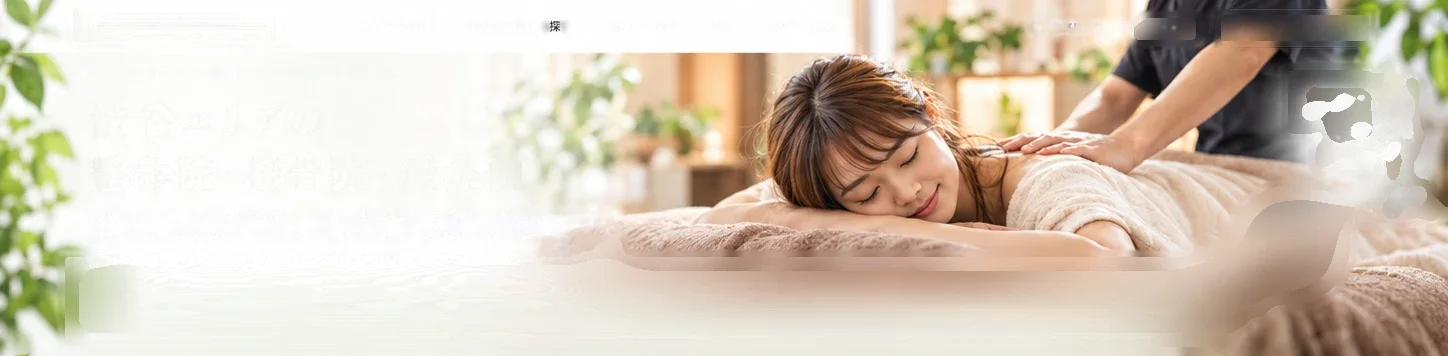
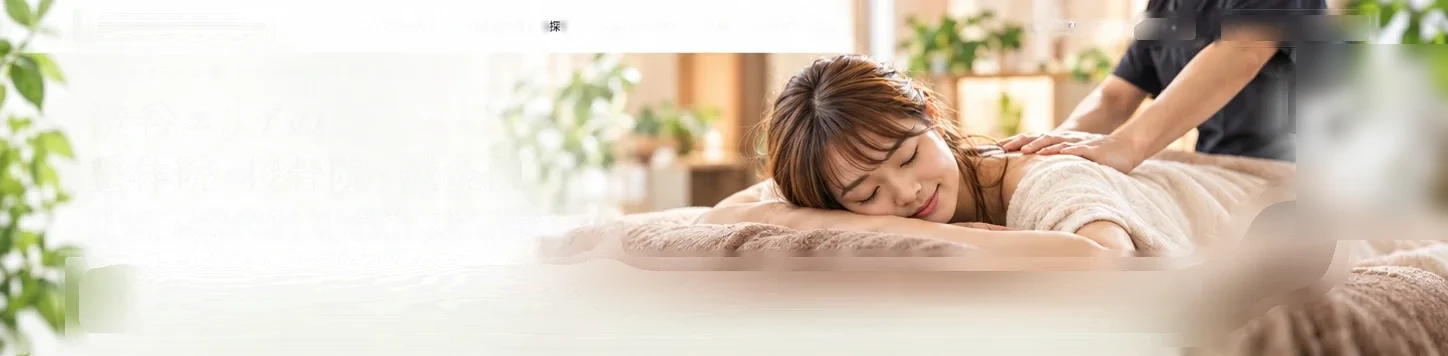
fix(bodycare-green): 探すページの見比べ修正(見出し2行目の字幅・手書き・左の条件の字と行間・キーワードの位置・ヘッダーの形・ヒーローの継ぎ目)

Changed region(s): [[0.9012, 0.1236, 1.0, 0.5871], [0.9634, 0.618, 1.0, 0.6798]]

diff --git a/components/portal/bcproto/green/search/search.css b/components/portal/bcproto/green/search/search.css
@@ -135,6 +135,8 @@
 /* ================= PC(見本の 1448px 画面を、画面幅に合わせて等倍〜縮小) ================= */
 @media (min-width: 1081px) {
   .gr-root:has([data-gr-page="search"]) .gr-nav { gap: 26.2px; }
+  .gr-root:has([data-gr-page="search"]) .gr-logo img { width: 213.5px; height: auto; margin-left: 0; }
+  .gr-root:has([data-gr-page="search"]) .gr-area-btn { width: 153.5px; margin-left: -10px; margin-right: 3.5px; padding-right: 14px; gap: 6px; font-size: 12px; border-radius: 18px; box-shadow: 0 0 0 2px rgba(255, 255, 255, 0.9), 0 0 0 3px rgba(40, 80, 55, 0.35), 0 2px 6px rgba(30, 60, 40, 0.18); }
   .gs-page { --u: clamp(0.75px, calc(100vw / 1448), 1px); }
   .gs-w { width: calc(1448 * var(--u)); margin: 0 auto; }
 
@@ -148,12 +150,19 @@
   .gs-crumb { position: absolute; left: calc(88 * var(--u)); top: calc(63 * var(--u)); gap: 0 calc(26 * var(--u)); font-size: calc(11.5 * var(--u)); line-height: calc(18 * var(--u)); margin: 0; }
   .gs-crumb > *:not(:first-child)::before { left: calc(-17 * var(--u)); width: calc(5 * var(--u)); height: calc(5 * var(--u)); }
   .gs-h1 { position: absolute; left: calc(88 * var(--u)); top: calc(94.5 * var(--u)); margin: 0; font-size: calc(40 * var(--u)); line-height: calc(53 * var(--u)); font-weight: 600; letter-spacing: 0; white-space: nowrap; }
+  .gs-h1 .gr-ml:nth-child(2) .gr-ml-i { font-size: calc(43 * var(--u)); }
+  .gs-dot { margin: 0 calc(-9.25 * var(--u)); }
   .gs-lead { position: absolute; left: calc(88 * var(--u)); top: calc(204 * var(--u)); margin: 0; font-size: calc(14.6 * var(--u)); line-height: calc(22 * var(--u)); width: calc(640 * var(--u)); }
-  .gs-hand { position: absolute; left: calc(1290 * var(--u)); top: calc(84 * var(--u)); z-index: 4; margin: 0; font-size: calc(23.4 * var(--u)); line-height: calc(28.5 * var(--u)); color: #2a2d2c; rotate: -12.5deg; transform-origin: 0 0; font-weight: 600; letter-spacing: 0.02em; }
+  .gs-hand { position: absolute; left: calc(1288 * var(--u)); top: calc(84 * var(--u)); z-index: 4; margin: 0; font-size: calc(23.4 * var(--u)); line-height: calc(28.5 * var(--u)); color: #2a2d2c; rotate: -12.5deg; transform-origin: 0 0; font-weight: 400; letter-spacing: 0.02em; }
+  .gs-hand .gr-wl:nth-child(1) .gr-wl-i { letter-spacing: -0.24em; }
+  .gs-hand .gr-wl:nth-child(2) .gr-wl-i { letter-spacing: -0.17em; }
+  .gs-hand .gr-wl:nth-child(3) .gr-wl-i { letter-spacing: -0.14em; }
+  .gs-hand .gr-wl-i { -webkit-text-stroke: 0.4px currentColor; }
+  .gs-l1 { letter-spacing: calc(0.25 * var(--u)); } .gs-l2 { letter-spacing: calc(-0.3 * var(--u)); }
   .gs-hand::before { content: ""; position: absolute; left: calc(-46 * var(--u)); top: calc(-52 * var(--u)); width: calc(250 * var(--u)); height: calc(200 * var(--u)); z-index: -1; background: radial-gradient(closest-side, rgba(255, 255, 255, 0.93) 0%, rgba(255, 255, 255, 0.88) 55%, rgba(255, 255, 255, 0) 100%); rotate: 12.5deg; pointer-events: none; filter: blur(5px); }
-  .gs-hand .gr-wl:nth-child(2) { margin-left: calc(3 * var(--u)); }
-  .gs-hand .gr-wl:nth-child(3) { margin-left: calc(14 * var(--u)); }
-  .gs-badge { left: calc(1226.5 * var(--u)); top: calc(181 * var(--u)); right: auto; width: calc(127 * var(--u)); height: calc(127 * var(--u)); font-size: calc(13.9 * var(--u)); line-height: calc(19.7 * var(--u)); font-weight: 600; color: #3f4a55; z-index: 3; box-shadow: 0 3px 12px rgba(120, 95, 50, 0.14); }
+  .gs-hand .gr-wl:nth-child(2) { margin-left: calc(0.5 * var(--u)); }
+  .gs-hand .gr-wl:nth-child(3) { margin-left: calc(9.5 * var(--u)); }
+  .gs-badge { left: calc(1226.5 * var(--u)); top: calc(181 * var(--u)); right: auto; width: calc(127 * var(--u)); height: calc(127 * var(--u)); font-size: calc(13.9 * var(--u)); line-height: calc(19.7 * var(--u)); font-weight: 600; color: #35404b; z-index: 3; box-shadow: 0 3px 12px rgba(120, 95, 50, 0.14); }
   .gs-panel { position: absolute; left: calc(73 * var(--u)); top: calc(253 * var(--u)); width: calc(1130 * var(--u)); height: calc(67 * var(--u)); display: block; padding: 0; border-radius: calc(34 * var(--u)); z-index: 2; backdrop-filter: blur(3px); }
   .gs-area { position: absolute; left: calc(16 * var(--u)); top: calc(12 * var(--u)); width: calc(302 * var(--u)); height: calc(43 * var(--u)); border-radius: calc(22 * var(--u)); box-shadow: 0 1px 4px rgba(60, 60, 40, 0.06); }
   .gs-area-pin { left: calc(23 * var(--u)); width: calc(19 * var(--u)); height: calc(24 * var(--u)); }
@@ -165,10 +174,10 @@
   .gs-go { position: absolute; right: calc(1.5 * var(--u)); top: calc(-0.5 * var(--u)); width: calc(288 * var(--u)); height: calc(43.5 * var(--u)); margin: 0; border-radius: calc(22 * var(--u)); font-size: calc(15 * var(--u)); gap: 0; }
   .gs-go svg { position: absolute; right: calc(25 * var(--u)); top: 50%; translate: 0 -50%; width: calc(19 * var(--u)); height: calc(9 * var(--u)); }
   .gs-kw { position: absolute; left: calc(82 * var(--u)); top: calc(323 * var(--u)); height: calc(25 * var(--u)); margin: 0; display: flex; align-items: center; z-index: 2; }
-  .gs-kw-l { font-size: calc(11.5 * var(--u)); margin: 0; white-space: nowrap; }
-  .gs-kw ul { gap: calc(9.5 * var(--u)); margin: 0 0 0 calc(11 * var(--u)); padding: 0; overflow: visible; }
+  .gs-kw-l { font-size: calc(11.2 * var(--u)); margin: 0; white-space: nowrap; }
+  .gs-kw ul { gap: calc(9.3 * var(--u)); margin: 0 0 0 calc(12 * var(--u)); padding: 0; overflow: visible; }
   .gs-kw li { width: calc(var(--w) * var(--u)); }
-  .gs-kw .gr-chip { width: 100%; height: calc(25 * var(--u)); padding: 0; font-size: calc(12 * var(--u)); }
+  .gs-kw .gr-chip { width: 100%; height: calc(25 * var(--u)); padding: 0; font-size: calc(10.6 * var(--u)); font-weight: 600; color: #3b3f3c; }
 
   .gs-eg { opacity: 1; }
   .gs-eg-l { left: 0; top: calc(340 * var(--u)); width: calc(44 * var(--u)); height: calc(330 * var(--u)); transform-origin: 0 20%; }
@@ -191,14 +200,16 @@
   .gs-fsel + .gs-fl { margin-top: calc(6.6 * var(--u)); }
   .gs-fl--3.gs-fl--wide { grid-template-columns: calc(89.5 * var(--u)) calc(88.5 * var(--u)) 1fr; margin-top: calc(7.4 * var(--u)); }
   .gs-fs--worry { padding-top: calc(10 * var(--u)) !important; } .gs-fs--worry .gs-fl { margin-top: calc(4.8 * var(--u)); }
-  .gs-fs--kind { padding-top: calc(11.5 * var(--u)) !important; } .gs-fs--kind .gs-fl { margin-top: calc(6.3 * var(--u)); }
-  .gs-fs--price { padding-top: calc(8 * var(--u)) !important; } .gs-fs--price .gs-fl { margin-top: calc(6.4 * var(--u)); }
-  .gs-fs--hours { padding-top: calc(6 * var(--u)) !important; }
-  .gs-fs--etc { padding-top: calc(5 * var(--u)) !important; }
+  .gs-fs--kind { padding-top: calc(10.5 * var(--u)) !important; } .gs-fs--kind .gs-fl { margin-top: calc(6.3 * var(--u)); }
+  .gs-fs--price { padding-top: calc(7 * var(--u)) !important; } .gs-fs--price .gs-fl { margin-top: calc(6.4 * var(--u)); }
+  .gs-fs--hours { padding-top: calc(5 * var(--u)) !important; }
+  .gs-fs--etc { padding-top: calc(4 * var(--u)) !important; }
   .gs-fl--3.gs-fl--tiny { grid-template-columns: calc(117 * var(--u)) calc(112.5 * var(--u)) 1fr; margin-top: calc(3.2 * var(--u)); }
   .gs-ck { gap: calc(7 * var(--u)); min-height: calc(22.4 * var(--u)); font-size: calc(12.3 * var(--u)); white-space: nowrap; }
   .gs-fl--3 .gs-ck { gap: calc(7.5 * var(--u)); }
-  .gs-fl--tiny .gs-ck { gap: calc(5.5 * var(--u)); min-height: calc(21.5 * var(--u)); font-size: calc(10.8 * var(--u)); white-space: nowrap; }
+  .gs-fl--3.gs-fl--wide .gs-ck { font-size: calc(10.8 * var(--u)); }
+  .gs-fl--tiny .gs-ck { gap: calc(3.5 * var(--u)); min-height: calc(21.5 * var(--u)); font-size: calc(9.5 * var(--u)); white-space: nowrap; color: #6c706c; }
+  .gs-fs--etc .gs-fs-t { font-size: calc(13.2 * var(--u)); }
   .gs-ck i { width: calc(16.5 * var(--u)); height: calc(16.5 * var(--u)); border-radius: calc(4.5 * var(--u)); }
   .gs-ck i svg { width: calc(10 * var(--u)); height: calc(8 * var(--u)); }
   .gs-fbtns { gap: calc(7 * var(--u)); margin: calc(7 * var(--u)) calc(-5 * var(--u)) 0; }
@@ -209,16 +220,16 @@
   .gs-res { padding-top: calc(7 * var(--u)); }
   .gs-rh { height: calc(34 * var(--u)); flex-wrap: nowrap; gap: 0; margin: 0 0 calc(3 * var(--u)); padding-left: calc(4 * var(--u)); }
   .gs-count { gap: 0; }
-  .gs-count-t { font-size: calc(17.6 * var(--u)); margin-right: calc(13 * var(--u)); }
-  .gs-count-n { font-size: calc(27 * var(--u)); font-weight: 700; }
+  .gs-count-t { font-size: calc(18 * var(--u)); font-weight: 600; margin-right: calc(12 * var(--u)); }
+  .gs-count-n { font-size: calc(27 * var(--u)); font-weight: 700; -webkit-text-stroke: 0.3px currentColor; }
   .gs-count-u { font-size: calc(15 * var(--u)); margin-left: calc(1 * var(--u)); }
   .gs-rh-r { gap: 0; margin-right: calc(1 * var(--u)); }
-  .gs-map { width: calc(175 * var(--u)); height: calc(33 * var(--u)); gap: calc(3 * var(--u)); padding-left: calc(17 * var(--u)); border-radius: calc(10 * var(--u)); font-size: calc(12.2 * var(--u)); }
-  .gs-map svg { width: calc(19 * var(--u)); height: calc(19 * var(--u)); }
+  .gs-map { width: calc(175 * var(--u)); height: calc(33 * var(--u)); gap: calc(5.5 * var(--u)); padding-left: calc(11 * var(--u)); border-radius: calc(10 * var(--u)); font-size: calc(12.2 * var(--u)); }
+  .gs-map svg { width: calc(21 * var(--u)); height: calc(21 * var(--u)); }
   .gs-map-i { width: calc(70 * var(--u)); }
-  .gs-sort-l { display: block; margin-left: calc(21 * var(--u)); margin-right: calc(14 * var(--u)); font-size: calc(10.8 * var(--u)); color: var(--gr-mut); }
+  .gs-sort-l { display: block; margin-left: calc(21 * var(--u)); margin-right: calc(14 * var(--u)); font-size: calc(10.8 * var(--u)); font-weight: 500; color: #6d716d; }
   .gs-sort-sel { width: calc(142 * var(--u)); height: calc(32 * var(--u)); border-radius: calc(8 * var(--u)); }
-  .gs-sort-sel select { padding: 0 calc(28 * var(--u)) 0 calc(12 * var(--u)); font-size: calc(12.2 * var(--u)); border-radius: calc(8 * var(--u)); }
+  .gs-sort-sel select { padding: 0 calc(28 * var(--u)) 0 calc(14.5 * var(--u)); font-size: calc(11.2 * var(--u)); font-weight: 500; color: #555; border-radius: calc(8 * var(--u)); }
   .gs-sort-sel svg { right: calc(15 * var(--u)); }
 
   .gs-cards { display: block; }

diff --git a/components/portal/bcproto/green/search/search.src.css b/components/portal/bcproto/green/search/search.src.css
@@ -135,6 +135,8 @@
 /* ================= PC(見本の 1448px 画面を、画面幅に合わせて等倍〜縮小) ================= */
 @media (min-width: 1081px) {
   .gr-root:has([data-gr-page="search"]) .gr-nav { gap: 26.2px; }
+  .gr-root:has([data-gr-page="search"]) .gr-logo img { width: 213.5px; height: auto; margin-left: 0; }
+  .gr-root:has([data-gr-page="search"]) .gr-area-btn { width: 153.5px; margin-left: -10px; margin-right: 3.5px; padding-right: 14px; gap: 6px; font-size: 12px; border-radius: 18px; box-shadow: 0 0 0 2px rgba(255, 255, 255, 0.9), 0 0 0 3px rgba(40, 80, 55, 0.35), 0 2px 6px rgba(30, 60, 40, 0.18); }
   .gs-page { --u: clamp(0.75px, calc(100vw / 1448), 1px); }
   .gs-w { width: calc(1448 * var(--u)); margin: 0 auto; }
 
@@ -148,12 +150,19 @@
   .gs-crumb { position: absolute; left: 88u; top: 63u; gap: 0 26u; font-size: 11.5u; line-height: 18u; margin: 0; }
   .gs-crumb > *:not(:first-child)::before { left: -17u; width: 5u; height: 5u; }
   .gs-h1 { position: absolute; left: 88u; top: 94.5u; margin: 0; font-size: 40u; line-height: 53u; font-weight: 600; letter-spacing: 0; white-space: nowrap; }
+  .gs-h1 .gr-ml:nth-child(2) .gr-ml-i { font-size: 43u; }
+  .gs-dot { margin: 0 -9.25u; }
   .gs-lead { position: absolute; left: 88u; top: 204u; margin: 0; font-size: 14.6u; line-height: 22u; width: 640u; }
-  .gs-hand { position: absolute; left: 1290u; top: 84u; z-index: 4; margin: 0; font-size: 23.4u; line-height: 28.5u; color: #2a2d2c; rotate: -12.5deg; transform-origin: 0 0; font-weight: 600; letter-spacing: 0.02em; }
+  .gs-hand { position: absolute; left: 1288u; top: 84u; z-index: 4; margin: 0; font-size: 23.4u; line-height: 28.5u; color: #2a2d2c; rotate: -12.5deg; transform-origin: 0 0; font-weight: 400; letter-spacing: 0.02em; }
+  .gs-hand .gr-wl:nth-child(1) .gr-wl-i { letter-spacing: -0.24em; }
+  .gs-hand .gr-wl:nth-child(2) .gr-wl-i { letter-spacing: -0.17em; }
+  .gs-hand .gr-wl:nth-child(3) .gr-wl-i { letter-spacing: -0.14em; }
+  .gs-hand .gr-wl-i { -webkit-text-stroke: 0.4px currentColor; }
+  .gs-l1 { letter-spacing: 0.25u; } .gs-l2 { letter-spacing: -0.3u; }
   .gs-hand::before { content: ""; position: absolute; left: -46u; top: -52u; width: 250u; height: 200u; z-index: -1; background: radial-gradient(closest-side, rgba(255, 255, 255, 0.93) 0%, rgba(255, 255, 255, 0.88) 55%, rgba(255, 255, 255, 0) 100%); rotate: 12.5deg; pointer-events: none; filter: blur(5px); }
-  .gs-hand .gr-wl:nth-child(2) { margin-left: 3u; }
-  .gs-hand .gr-wl:nth-child(3) { margin-left: 14u; }
-  .gs-badge { left: 1226.5u; top: 181u; right: auto; width: 127u; height: 127u; font-size: 13.9u; line-height: 19.7u; font-weight: 600; color: #3f4a55; z-index: 3; box-shadow: 0 3px 12px rgba(120, 95, 50, 0.14); }
+  .gs-hand .gr-wl:nth-child(2) { margin-left: 0.5u; }
+  .gs-hand .gr-wl:nth-child(3) { margin-left: 9.5u; }
+  .gs-badge { left: 1226.5u; top: 181u; right: auto; width: 127u; height: 127u; font-size: 13.9u; line-height: 19.7u; font-weight: 600; color: #35404b; z-index: 3; box-shadow: 0 3px 12px rgba(120, 95, 50, 0.14); }
   .gs-panel { position: absolute; left: 73u; top: 253u; width: 1130u; height: 67u; display: block; padding: 0; border-radius: 34u; z-index: 2; backdrop-filter: blur(3px); }
   .gs-area { position: absolute; left: 16u; top: 12u; width: 302u; height: 43u; border-radius: 22u; box-shadow: 0 1px 4px rgba(60, 60, 40, 0.06); }
   .gs-area-pin { left: 23u; width: 19u; height: 24u; }
@@ -165,10 +174,10 @@
   .gs-go { position: absolute; right: 1.5u; top: -0.5u; width: 288u; height: 43.5u; margin: 0; border-radius: 22u; font-size: 15u; gap: 0; }
   .gs-go svg { position: absolute; right: 25u; top: 50%; translate: 0 -50%; width: 19u; height: 9u; }
   .gs-kw { position: absolute; left: 82u; top: 323u; height: 25u; margin: 0; display: flex; align-items: center; z-index: 2; }
-  .gs-kw-l { font-size: 11.5u; margin: 0; white-space: nowrap; }
-  .gs-kw ul { gap: 9.5u; margin: 0 0 0 11u; padding: 0; overflow: visible; }
+  .gs-kw-l { font-size: 11.2u; margin: 0; white-space: nowrap; }
+  .gs-kw ul { gap: 9.3u; margin: 0 0 0 12u; padding: 0; overflow: visible; }
   .gs-kw li { width: calc(var(--w) * var(--u)); }
-  .gs-kw .gr-chip { width: 100%; height: 25u; padding: 0; font-size: 12u; }
+  .gs-kw .gr-chip { width: 100%; height: 25u; padding: 0; font-size: 10.6u; font-weight: 600; color: #3b3f3c; }
 
   .gs-eg { opacity: 1; }
   .gs-eg-l { left: 0; top: 340u; width: 44u; height: 330u; transform-origin: 0 20%; }
@@ -191,14 +200,16 @@
   .gs-fsel + .gs-fl { margin-top: 6.6u; }
   .gs-fl--3.gs-fl--wide { grid-template-columns: 89.5u 88.5u 1fr; margin-top: 7.4u; }
   .gs-fs--worry { padding-top: 10u !important; } .gs-fs--worry .gs-fl { margin-top: 4.8u; }
-  .gs-fs--kind { padding-top: 11.5u !important; } .gs-fs--kind .gs-fl { margin-top: 6.3u; }
-  .gs-fs--price { padding-top: 8u !important; } .gs-fs--price .gs-fl { margin-top: 6.4u; }
-  .gs-fs--hours { padding-top: 6u !important; }
-  .gs-fs--etc { padding-top: 5u !important; }
+  .gs-fs--kind { padding-top: 10.5u !important; } .gs-fs--kind .gs-fl { margin-top: 6.3u; }
+  .gs-fs--price { padding-top: 7u !important; } .gs-fs--price .gs-fl { margin-top: 6.4u; }
+  .gs-fs--hours { padding-top: 5u !important; }
+  .gs-fs--etc { padding-top: 4u !important; }
   .gs-fl--3.gs-fl--tiny { grid-template-columns: 117u 112.5u 1fr; margin-top: 3.2u; }
   .gs-ck { gap: 7u; min-height: 22.4u; font-size: 12.3u; white-space: nowrap; }
   .gs-fl--3 .gs-ck { gap: 7.5u; }
-  .gs-fl--tiny .gs-ck { gap: 5.5u; min-height: 21.5u; font-size: 10.8u; white-space: nowrap; }
+  .gs-fl--3.gs-fl--wide .gs-ck { font-size: 10.8u; }
+  .gs-fl--tiny .gs-ck { gap: 3.5u; min-height: 21.5u; font-size: 9.5u; white-space: nowrap; color: #6c706c; }
+  .gs-fs--etc .gs-fs-t { font-size: 13.2u; }
   .gs-ck i { width: 16.5u; height: 16.5u; border-radius: 4.5u; }
   .gs-ck i svg { width: 10u; height: 8u; }
   .gs-fbtns { gap: 7u; margin: 7u -5u 0; }
@@ -209,16 +220,16 @@
   .gs-res { padding-top: 7u; }
   .gs-rh { height: 34u; flex-wrap: nowrap; gap: 0; margin: 0 0 3u; padding-left: 4u; }
   .gs-count { gap: 0; }
-  .gs-count-t { font-size: 17.6u; margin-right: 13u; }
-  .gs-count-n { font-size: 27u; font-weight: 700; }
+  .gs-count-t { font-size: 18u; font-weight: 600; margin-right: 12u; }
+  .gs-count-n { font-size: 27u; font-weight: 700; -webkit-text-stroke: 0.3px currentColor; }
   .gs-count-u { font-size: 15u; margin-left: 1u; }
   .gs-rh-r { gap: 0; margin-right: 1u; }
-  .gs-map { width: 175u; height: 33u; gap: 3u; padding-left: 17u; border-radius: 10u; font-size: 12.2u; }
-  .gs-map svg { width: 19u; height: 19u; }
+  .gs-map { width: 175u; height: 33u; gap: 5.5u; padding-left: 11u; border-radius: 10u; font-size: 12.2u; }
+  .gs-map svg { width: 21u; height: 21u; }
   .gs-map-i { width: 70u; }
-  .gs-sort-l { display: block; margin-left: 21u; margin-right: 14u; font-size: 10.8u; color: var(--gr-mut); }
+  .gs-sort-l { display: block; margin-left: 21u; margin-right: 14u; font-size: 10.8u; font-weight: 500; color: #6d716d; }
   .gs-sort-sel { width: 142u; height: 32u; border-radius: 8u; }
-  .gs-sort-sel select { padding: 0 28u 0 12u; font-size: 12.2u; border-radius: 8u; }
+  .gs-sort-sel select { padding: 0 28u 0 14.5u; font-size: 11.2u; font-weight: 500; color: #555; border-radius: 8u; }
   .gs-sort-sel svg { right: 15u; }
 
   .gs-cards { display: block; }

diff --git a/app/proto-bodycare/green/search/page.tsx b/app/proto-bodycare/green/search/page.tsx
@@ -99,13 +99,13 @@ export default function Page() {
             <span aria-current="page">整体院・接骨院・鍼灸院</span>
           </nav>
           <h1 id="gs-h1" className="gs-h1">
-            <MaskLines lines={["渋谷エリアの", "整体院・接骨院・鍼灸院"]} as="span" step={140} delay={120} />
+            <MaskLines lines={["渋谷エリアの", <span key="l2">整体院<span className="gs-dot">・</span>接骨院<span className="gs-dot">・</span>鍼灸院</span>]} as="span" step={140} delay={120} />
           </h1>
           <p className="gs-lead">
             <span data-rv="fade" style={{ ["--d" as string]: "700ms" } as CSSProperties}>
-              渋谷エリアで、からだの不調をケアできる整体院・接骨院・鍼灸院を探せます。
+              <span className="gs-l1">渋谷エリアで、からだの不調をケアできる整体院・接骨院・鍼灸院を探せます。</span>
               <br />
-              あなたにぴったりの院・サロンを見つけて、心もからだも軽やかな毎日を。
+              <span className="gs-l2">あなたにぴったりの院・サロンを見つけて、心もからだも軽やかな毎日を。</span>
             </span>
           </p>
           <Write className="gr-hand gs-hand" lines={["こころも、", "からだも、", "軽やかに。"]} delay={900} step={520} as="p" />

diff --git a/components/portal/bcproto/green/search/Filters.tsx b/components/portal/bcproto/green/search/Filters.tsx
@@ -98,8 +98,8 @@ function Icon({ k }: { k: string }) {
     return (
       <svg viewBox="0 0 24 24" width="20" height="20" aria-hidden="true">
         <circle cx="12" cy="12" r="11" fill={c} />
-        <path d="M12 6.4c3 0 5 2.4 5 5.2 0 2.8-2.2 5-5 5s-5-2.2-5-5c0-2.8 2-5.2 5-5.2z" fill="#fff" />
-        <circle cx="12" cy="12" r="1.8" fill={c} />
+        <path d="M12 5.2v6M9.4 8.8 12 11.4l2.6-2.6" fill="none" stroke="#fff" strokeWidth="1.7" strokeLinecap="round" strokeLinejoin="round" />
+        <path d="M6.2 12.9c0 3.1 2.5 5.1 5.8 5.1s5.8-2 5.8-5.1c-1.4.9-3.5 1.4-5.8 1.4s-4.4-.5-5.8-1.4z" fill="#fff" />
       </svg>
     );
   return null;
